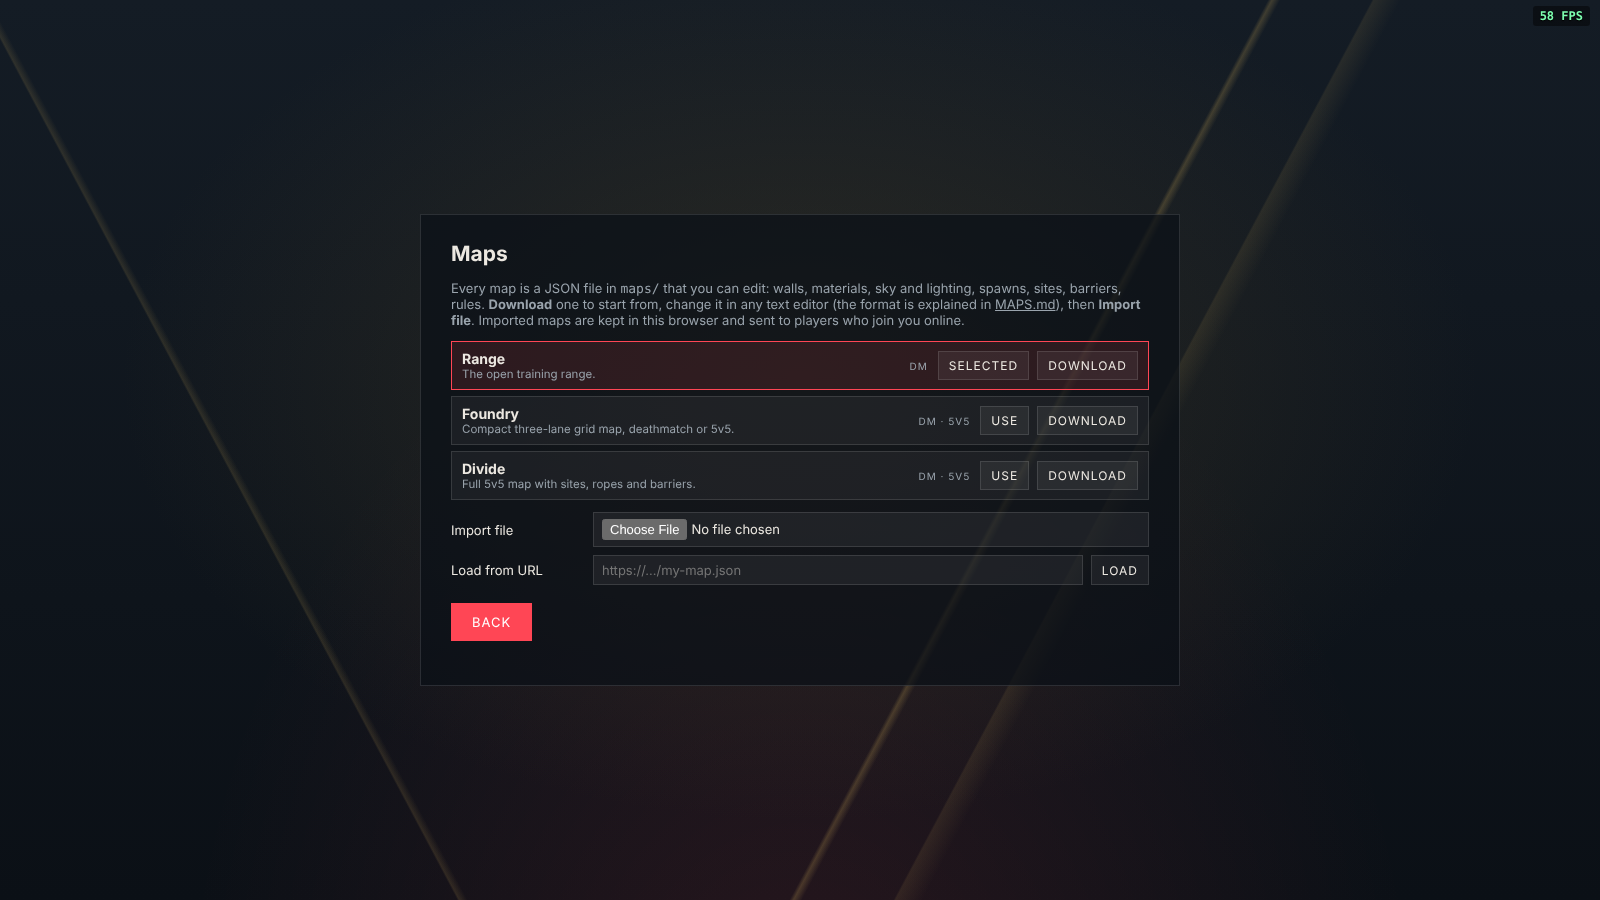
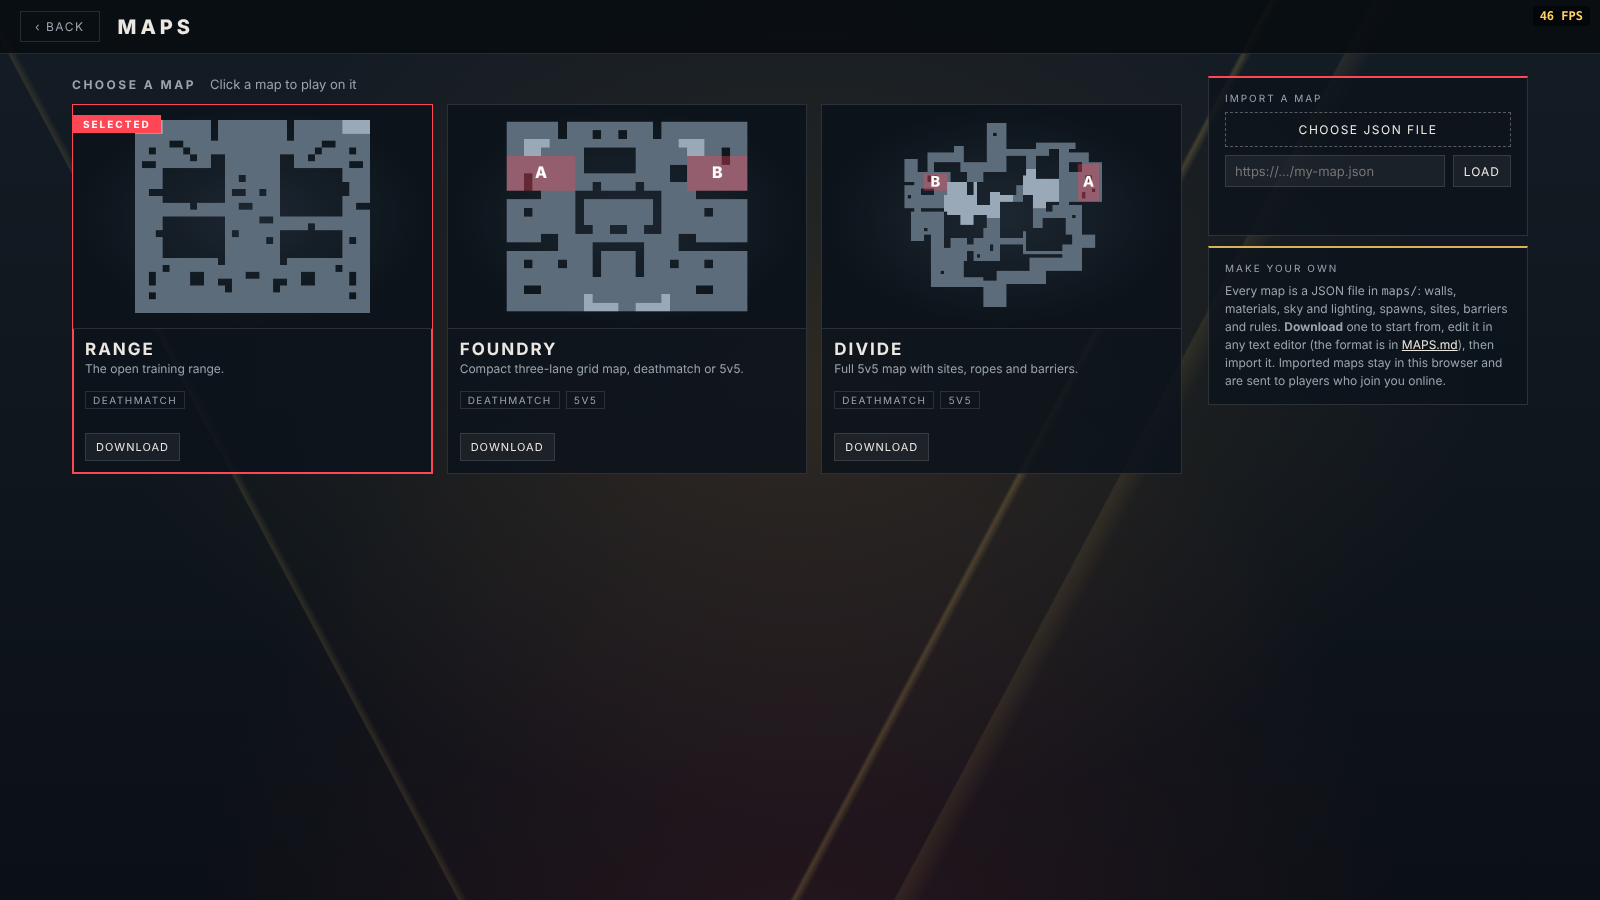
Redesign the Maps and Online screens as full-screen lobby pages
Both get a header bar with Back, a main column and a side panel, on the home
backdrop. Maps shows each map as a card with a top-down picture of its
layout and sites (drawn once from the map data, then cached); clicking a card
selects it. Online gets a roomy server browser, a create form, and a side
panel for your profile and joining by code.

Claude-Session: https://claude.ai/code/session_012SZNW3At2zZHQwEZk8rPtX

diff --git a/index.html b/index.html
@@ -574,6 +574,64 @@ button.set-opt.on:hover { background: rgba(255, 255, 255, 0.28); }
 #end-stats b { display: block; font-size: 24px; }
 #end-stats span { color: var(--muted); font-size: 12px; }
 
+/* ---------- Full-screen lobby pages (Maps, Online) ---------- */
+.overlay.page { display: flex; flex-direction: column; place-items: stretch; padding: 0; background: rgba(8, 12, 18, 0.9); }
+.overlay.page.lobby-bg { background: var(--lobby-bg); }
+.page-head { flex: none; display: flex; align-items: stretch; gap: 18px; height: 54px; padding: 0 20px; background: rgba(8, 12, 17, 0.88); border-bottom: 1px solid var(--line); }
+.page-head h2 { margin: 0; align-self: center; font-size: 20px; font-weight: 800; letter-spacing: 4px; text-transform: uppercase; }
+.page-back { align-self: center; padding: 7px 14px; background: none; border: 1px solid var(--line); color: var(--muted); cursor: pointer; font-size: 12px; letter-spacing: 1.5px; text-transform: uppercase; }
+.page-back:hover { color: var(--text); border-color: var(--text); }
+.page-head .srv-tabs { margin: 0 0 0 12px; border: 0; align-self: stretch; }
+.page-head .srv-tabs button { font-size: 12px; font-weight: 600; letter-spacing: 2px; padding: 0 18px; }
+.page-body { flex: 1; min-height: 0; width: min(1500px, 100%); margin: 0 auto; display: grid; grid-template-columns: minmax(0, 1fr) 320px; gap: 22px; padding: 22px; }
+.page-main { min-height: 0; overflow: auto; padding-right: 4px; }
+.page-side { display: flex; flex-direction: column; gap: 10px; min-height: 0; overflow: auto; }
+.page-title { display: flex; align-items: baseline; gap: 14px; margin: 0 0 12px; }
+.page-title h3 { margin: 0; font-size: 12px; letter-spacing: 2.5px; color: var(--muted); text-transform: uppercase; }
+.page-title .mini { margin-left: auto; }
+.side-card { display: flex; flex-direction: column; gap: 8px; padding: 14px 16px; background: rgba(12, 19, 27, 0.82); border: 1px solid var(--line); border-top: 2px solid var(--accent); }
+.side-card > small { font-size: 10px; letter-spacing: 2px; color: var(--muted); text-transform: uppercase; }
+.side-card .form { grid-template-columns: 60px 1fr; margin: 0; }
+.side-card input:not([type=color]):not([type=file]), .side-card select { width: 100%; background: rgba(255, 255, 255, 0.06); color: var(--text); border: 1px solid var(--line); padding: 7px 9px; font: inherit; font-size: 13px; }
+.side-card select option { background: var(--bg); }
+.side-card #net-code { font-family: ui-monospace, Menlo, Consolas, monospace; letter-spacing: 2px; text-transform: uppercase; }
+.note-card { border-top-color: var(--gold, #d8b25a); }
+.note-card p { margin: 0; font-size: 12px; line-height: 1.5; color: var(--muted); }
+.note-card a { color: var(--text); }
+.file-btn { position: relative; display: block; padding: 9px 12px; text-align: center; border: 1px dashed rgba(255, 255, 255, 0.3); color: var(--text); cursor: pointer; font-size: 12px; letter-spacing: 1.5px; text-transform: uppercase; }
+.file-btn:hover { border-color: var(--text); background: rgba(255, 255, 255, 0.05); }
+.file-btn input { position: absolute; inset: 0; opacity: 0; cursor: pointer; }
+.page-cta { margin-top: 16px; padding: 12px 40px; background: var(--accent); border: 0; color: #fff; font-size: 14px; font-weight: 800; letter-spacing: 3px; text-transform: uppercase; cursor: pointer; }
+.page-cta:hover { background: #ff5b68; }
+.form.big { grid-template-columns: 150px minmax(0, 520px); gap: 10px 14px; font-size: 14px; }
+.form.big input, .form.big select { padding: 9px 10px; }
+.page #srv-list { max-height: none; gap: 6px; }
+.page .srv-head, .page .srv-row { grid-template-columns: minmax(0, 1.5fr) minmax(0, 1.3fr) 80px 100px; }
+.page .srv-row { padding: 12px 14px; background: rgba(12, 19, 27, 0.8); border-left: 3px solid transparent; }
+.page .srv-row:hover { border-left-color: var(--accent); }
+.page .srv-row b { font-size: 14px; }
+.page .srv-row .mini { padding: 8px 12px; }
+.srv-empty { padding: 34px 16px; text-align: center; color: var(--muted); font-size: 13px; background: rgba(12, 19, 27, 0.6); border: 1px dashed var(--line); }
+.page #online-status { margin: 12px 0 0; }
+
+/* Map cards: a top-down drawing of the layout (drawn once per map, then cached), name, modes and actions. */
+.page #map-list { display: grid; grid-template-columns: repeat(auto-fill, minmax(340px, 1fr)); gap: 14px; max-height: none; margin: 0; }
+.map-card { position: relative; display: flex; flex-direction: column; background: rgba(12, 19, 27, 0.85); border: 1px solid var(--line); cursor: pointer; }
+.map-card:hover { border-color: rgba(255, 255, 255, 0.4); }
+.map-card.sel { border-color: var(--accent); box-shadow: inset 0 0 0 1px var(--accent); }
+.map-thumb { position: relative; aspect-ratio: 16 / 10; background: radial-gradient(ellipse at 50% 50%, rgba(80, 100, 120, 0.25), transparent 70%), #0c131a; border-bottom: 1px solid var(--line); overflow: hidden; }
+.map-thumb img { position: absolute; inset: 8px; width: calc(100% - 16px); height: calc(100% - 16px); object-fit: contain; }
+.map-card .badge { position: absolute; z-index: 1; left: 0; top: 10px; padding: 3px 10px; background: var(--accent); color: #fff; font-size: 10px; font-weight: 700; letter-spacing: 2px; text-transform: uppercase; }
+.map-card .info { padding: 10px 12px 4px; }
+.map-card .info b { display: block; font-size: 17px; letter-spacing: 2px; text-transform: uppercase; }
+.map-card .info small { display: block; margin-top: 2px; color: var(--muted); font-size: 12px; line-height: 1.35; }
+.map-card .modes { display: flex; gap: 6px; padding: 6px 12px 0; }
+.map-card .modes span { padding: 2px 7px; font-size: 10px; letter-spacing: 1.5px; text-transform: uppercase; color: var(--muted); border: 1px solid var(--line); }
+.map-card .acts { display: flex; gap: 6px; margin-top: auto; padding: 10px 12px 12px; }
+.map-card .acts button { padding: 6px 10px; border: 1px solid var(--line); background: rgba(255, 255, 255, 0.06); color: var(--text); cursor: pointer; font-size: 11px; letter-spacing: 1px; text-transform: uppercase; }
+.map-card .acts button:hover { border-color: var(--text); }
+@media (max-width: 900px) { .page-body { grid-template-columns: 1fr; } .page-head .srv-tabs button { padding: 0 10px; } .form.big { grid-template-columns: 110px 1fr; } }
+
 /* ---------- Home screen ----------
    Static CSS only: gradients for the backdrop, no blur, no animation, and the 3D scene behind it stops
    drawing while it is up (main.js), so the lobby costs next to nothing. */
@@ -685,7 +743,7 @@ button.set-opt.on:hover { background: rgba(255, 255, 255, 0.28); }
   .stat { grid-template-columns: auto 70px; }
 }
 </style>
-<script type="module" src="js/main.js?v=25"></script>
+<script type="module" src="js/main.js?v=26"></script>
 <canvas id="view"></canvas>
 
 <div id="hud" hidden>
@@ -832,69 +890,91 @@ button.set-opt.on:hover { background: rgba(255, 255, 255, 0.28); }
   </div>
 </div>
 
-<div id="online" class="overlay" hidden>
-  <div class="panel wide">
-    <h2>Servers</h2>
+<div id="online" class="overlay page" hidden>
+  <header class="page-head">
+    <button id="online-back" class="page-back" type="button">&lsaquo; Back</button>
+    <h2>Online</h2>
     <div class="srv-tabs">
-      <button id="srv-tab-join" class="sel" data-tab="join">Join a server</button>
+      <button id="srv-tab-join" class="sel" data-tab="join">Server browser</button>
       <button id="srv-tab-create" data-tab="create">Create server</button>
     </div>
-    <div class="form">
-      <label for="net-name">Your name</label><input id="net-name" maxlength="16">
-      <label for="net-color">Colour</label><input id="net-color" type="color">
-    </div>
+  </header>
+  <div class="page-body">
+    <main class="page-main">
+      <section id="srv-join">
+        <div class="page-title"><h3>Open servers</h3><button id="srv-refresh" class="mini" type="button">Refresh</button></div>
+        <div class="srv-head"><span>Server</span><span>Mode · map</span><span>Players</span><span></span></div>
+        <div id="srv-list"></div>
+        <p id="srv-empty" class="srv-empty">No servers open right now. Create one, or join a friend's server with its code.</p>
+        <p id="srv-net" class="note"></p>
+      </section>
 
-    <section id="srv-join">
-      <div class="srv-head"><span>Server</span><span>Mode · map</span><span>Players</span><span></span></div>
-      <div id="srv-list"></div>
-      <p id="srv-empty" class="note">No servers open right now. Create one, or join a friend's server with its code below.</p>
-      <p id="srv-net" class="note"></p>
-      <div class="form">
-        <label for="net-code">Join by code</label>
+      <section id="srv-create" hidden>
+        <div class="page-title"><h3>Host a server</h3></div>
+        <div class="form big">
+          <label for="net-server">Server name</label><input id="net-server" maxlength="32">
+          <label for="net-mode">Mode</label>
+          <select id="net-mode"><option value="dm">Deathmatch</option><option value="rounds">5v5 Rounds (bots fill empty slots)</option></select>
+          <label for="net-map">Map</label><select id="net-map"></select>
+          <label for="net-max">Max players</label><select id="net-max"></select>
+          <label for="net-transport">Who can join</label>
+          <select id="net-transport">
+            <option value="peer">Anyone with the code (internet, PeerJS)</option>
+            <option value="local">This browser only (tabs and windows)</option>
+          </select>
+          <label for="net-room">Room code</label><span class="inline"><input id="net-room" maxlength="12" autocomplete="off"><button id="net-newroom">New</button></span>
+        </div>
+        <button id="net-host" class="page-cta" type="button">Create server</button>
+      </section>
+      <p id="online-status"></p>
+    </main>
+
+    <aside class="page-side">
+      <div class="side-card">
+        <small>Your profile</small>
+        <div class="form">
+          <label for="net-name">Name</label><input id="net-name" maxlength="16">
+          <label for="net-color">Colour</label><input id="net-color" type="color">
+        </div>
+      </div>
+      <div class="side-card">
+        <small>Join by code</small>
         <span class="inline"><input id="net-code" maxlength="12" autocomplete="off" placeholder="e.g. K3X9QD"><button id="net-join">Join</button></span>
-        <label for="net-join-transport">Connection</label>
         <select id="net-join-transport">
           <option value="peer">Internet (another computer)</option>
           <option value="local">This browser (another tab)</option>
         </select>
       </div>
-      <div class="buttons"><button id="srv-refresh">Refresh</button></div>
-    </section>
-
-    <section id="srv-create" hidden>
-      <div class="form">
-        <label for="net-server">Server name</label><input id="net-server" maxlength="32">
-        <label for="net-mode">Mode</label>
-        <select id="net-mode"><option value="dm">Deathmatch</option><option value="rounds">5v5 Rounds (bots fill empty slots)</option></select>
-        <label for="net-map">Map</label><select id="net-map"></select>
-        <label for="net-max">Max players</label><select id="net-max"></select>
-        <label for="net-transport">Who can join</label>
-        <select id="net-transport">
-          <option value="peer">Anyone with the code (internet, PeerJS)</option>
-          <option value="local">This browser only (tabs and windows)</option>
-        </select>
-        <label for="net-room">Room code</label><span class="inline"><input id="net-room" maxlength="12" autocomplete="off"><button id="net-newroom">New</button></span>
+      <div class="side-card note-card">
+        <small>How it works</small>
+        <p>There's no game server: whoever creates a server hosts it in their own browser, and everyone picks an agent once they're in. The list shows internet servers from every player with this screen open or hosting, plus servers in other tabs of this browser. If one doesn't show up, join with its room code.</p>
       </div>
-      <div class="buttons"><button id="net-host" class="primary">Create server</button></div>
-    </section>
-
-    <p id="online-status"></p>
-    <div class="buttons"><button id="online-back">Back</button></div>
-    <p class="note">There's no game server: whoever creates a server hosts it in their own browser, and everyone picks an agent on the agent select screen once they're in. The list shows internet servers from every player who has this screen open or is hosting (one player's browser keeps the list, and another takes over when they leave), plus servers in other tabs of this browser. If a server doesn't show up, join with its room code; the host sees it on the agent select screen.</p>
+    </aside>
   </div>
 </div>
 
-<div id="maps" class="overlay" hidden>
-  <div class="panel wide">
+<div id="maps" class="overlay page" hidden>
+  <header class="page-head">
+    <button id="maps-back" class="page-back" type="button">&lsaquo; Back</button>
     <h2>Maps</h2>
-    <p class="note">Every map is a JSON file in <code>maps/</code> that you can edit: walls, materials, sky and lighting, spawns, sites, barriers, rules. <b>Download</b> one to start from, change it in any text editor (the format is explained in <a href="MAPS.md" target="_blank" style="color:inherit">MAPS.md</a>), then <b>Import file</b>. Imported maps are kept in this browser and sent to players who join you online.</p>
-    <div id="map-list"></div>
-    <div class="form">
-      <label>Import file</label><span class="inline"><input id="map-file" type="file" accept=".json,application/json"></span>
-      <label for="map-url">Load from URL</label><span class="inline"><input id="map-url" placeholder="https://…/my-map.json"><button id="map-url-go">Load</button></span>
-    </div>
-    <p id="map-status" class="note"></p>
-    <div class="buttons"><button id="maps-back" class="primary">Back</button></div>
+  </header>
+  <div class="page-body">
+    <main class="page-main">
+      <div class="page-title"><h3>Choose a map</h3><span class="note">Click a map to play on it</span></div>
+      <div id="map-list"></div>
+    </main>
+    <aside class="page-side">
+      <div class="side-card">
+        <small>Import a map</small>
+        <label class="file-btn">Choose JSON file<input id="map-file" type="file" accept=".json,application/json"></label>
+        <span class="inline"><input id="map-url" placeholder="https://…/my-map.json"><button id="map-url-go">Load</button></span>
+        <p id="map-status" class="note"></p>
+      </div>
+      <div class="side-card note-card">
+        <small>Make your own</small>
+        <p>Every map is a JSON file in <code>maps/</code>: walls, materials, sky and lighting, spawns, sites, barriers and rules. <b>Download</b> one to start from, edit it in any text editor (the format is in <a href="MAPS.md" target="_blank">MAPS.md</a>), then import it. Imported maps stay in this browser and are sent to players who join you online.</p>
+      </div>
+    </aside>
   </div>
 </div>
 

diff --git a/js/main.js b/js/main.js
@@ -16,7 +16,7 @@ import { AGENTS, AGENT_ORDER, Kit } from './abilities.js';
 import { ROUND } from './rounds.js';
 import { Minimap } from './minimap.js';
 import { RoundHud } from './roundhud.js';
-import { MAPS, loadMapIndex, preloadMap, mapList, mapInfo, mapJSON, addMap, removeCustomMap, supportsMode, upgradeMap, stringifyMap } from './map.js';
+import { MAPS, loadMapIndex, preloadMap, buildMap, mapList, mapInfo, mapJSON, addMap, removeCustomMap, supportsMode, upgradeMap, stringifyMap } from './map.js';
 import { NetSession, roomCode, peerOptions } from './net.js';
 import { Lobby, SelectScreen, emblem } from './agentselect.js';
 import { ServerDirectory } from './servers.js';
@@ -1389,26 +1389,55 @@ function openMaps() {
   show('maps');
 }
 
+// Map cards: a top-down picture of each layout (walkable cells, raised floor lighter, sites tinted), drawn once.
+const mapThumbs = new Map();
+async function mapThumb(id) {
+  if (mapThumbs.has(id)) return mapThumbs.get(id);
+  await preloadMap(id);
+  const m = buildMap(id), W = m.W, H = m.H, px = Math.max(1, Math.floor(400 / Math.max(W, H)));
+  const c = document.createElement('canvas');
+  c.width = W * px; c.height = H * px;
+  const x = c.getContext('2d');
+  for (let z = 0; z < H; z++) for (let cx = 0; cx < W; cx++) {
+    const h = m.heights[z]?.[cx];
+    if (h === null || h === undefined) continue;
+    x.fillStyle = h > 1.5 ? '#9aa9b8' : '#5d6c7b';
+    x.fillRect(cx * px, z * px, px, px);
+  }
+  for (const st of Object.values(m.sites || {})) {
+    const x0 = (st.min[0] - m.ox) / 2 * px, z0 = (st.min[2] - m.oz) / 2 * px, x1 = (st.max[0] - m.ox) / 2 * px, z1 = (st.max[2] - m.oz) / 2 * px;
+    x.fillStyle = 'rgba(255, 70, 85, 0.35)'; x.fillRect(x0, z0, x1 - x0, z1 - z0);
+    x.fillStyle = '#fff'; x.font = `800 ${Math.round(c.width / 16)}px system-ui, sans-serif`; x.textAlign = 'center'; x.textBaseline = 'middle';
+    x.fillText(st.name, (x0 + x1) / 2, (z0 + z1) / 2);
+  }
+  const url = c.toDataURL();
+  mapThumbs.set(id, url);
+  return url;
+}
+
 function buildMapList() {
   const list = $('map-list');
   list.innerHTML = '';
   for (const m of mapList()) {
-    const row = document.createElement('div');
-    row.className = 'map-row' + (m.id === settings.map ? ' sel' : '');
-    row.innerHTML = `<div><b>${escHtml(m.name)}</b><small>${escHtml(m.blurb || '')}</small></div><span class="tag">${m.modes.includes('rounds') ? 'DM · 5v5' : 'DM'}${m.custom ? ' · imported' : ''}</span><span class="inline"></span>`;
-    const btns = row.lastChild;
-    const use = document.createElement('button');
-    use.textContent = m.id === settings.map ? 'Selected' : 'Use';
-    use.onclick = async () => {
+    const sel = m.id === settings.map;
+    const card = document.createElement('div');
+    card.className = 'map-card' + (sel ? ' sel' : '');
+    card.title = sel ? 'Selected' : `Play on ${m.name}`;
+    card.innerHTML = `<div class="map-thumb">${sel ? '<span class="badge">Selected</span>' : ''}</div><div class="info"><b>${escHtml(m.name)}</b><small>${escHtml(m.blurb || '')}</small></div>`
+      + `<div class="modes"><span>Deathmatch</span>${m.modes.includes('rounds') ? '<span>5v5</span>' : ''}${m.custom ? '<span>Imported</span>' : ''}</div><div class="acts"></div>`;
+    mapThumb(m.id).then((url) => { const img = new Image(); img.alt = ''; img.src = url; card.firstChild.appendChild(img); }, () => {});
+    card.onclick = async () => {
+      if (sel) return;
       try { await preloadMap(m.id); } catch (err) { $('map-status').textContent = err.message; return; }
       settings.map = m.id; saveSettings(settings); updateMenuLoadout(); buildMapList();
     };
-    btns.appendChild(use);
+    const btns = card.lastChild;
     // The map as a version 2 file, to edit and import again (older maps are converted on the way out).
     const dl = document.createElement('button');
     dl.textContent = 'Download';
-    dl.title = 'Save this map as a JSON file you can edit, then load it with Import file';
-    dl.onclick = async () => {
+    dl.title = 'Save this map as a JSON file you can edit, then load it with Import';
+    dl.onclick = async (e) => {
+      e.stopPropagation();
       try {
         const text = stringifyMap(upgradeMap(await preloadMap(m.id)));
         const a = document.createElement('a');
@@ -1422,10 +1451,10 @@ function buildMapList() {
     if (m.custom && !m.file) {
       const del = document.createElement('button');
       del.textContent = 'Remove';
-      del.onclick = () => { removeCustomMap(m.id); if (settings.map === m.id) settings.map = 'arena'; saveSettings(settings); updateMenuLoadout(); buildMapList(); };
+      del.onclick = (e) => { e.stopPropagation(); removeCustomMap(m.id); mapThumbs.delete(m.id); if (settings.map === m.id) settings.map = 'arena'; saveSettings(settings); updateMenuLoadout(); buildMapList(); };
       btns.appendChild(del);
     }
-    list.appendChild(row);
+    list.appendChild(card);
   }
 }
 
